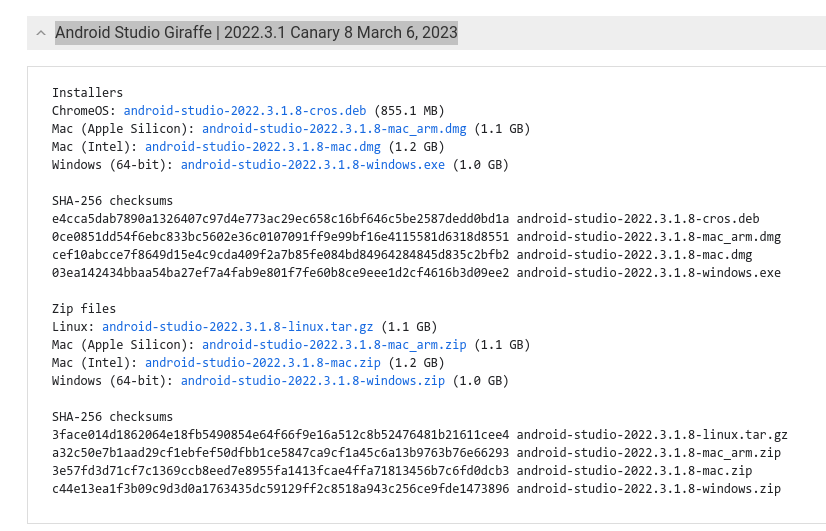
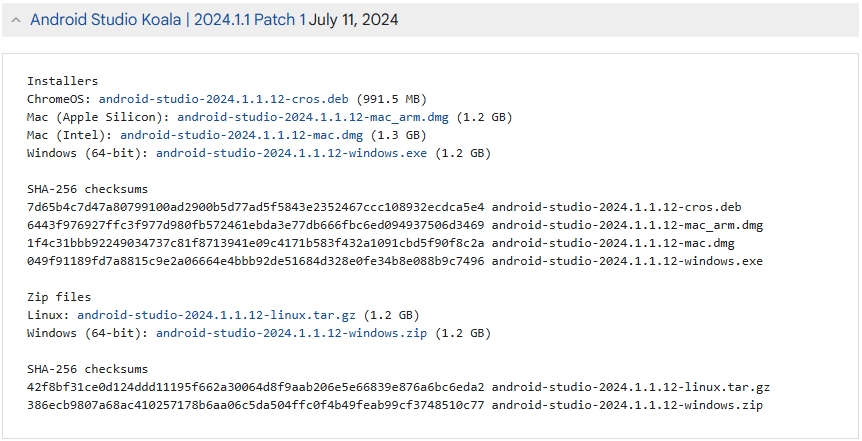
mod/add: some images and update for jetpack compose

diff --git a/content/IntroductionToAndroidStudio/IntroductionToAndroidStudio.md b/content/IntroductionToAndroidStudio/IntroductionToAndroidStudio.md
@@ -79,33 +79,32 @@ math: true
 
 <div align=center >
 
-|Platform Version|	API Level|	VERSION_CODE|
-|--|--|--|	
-|Android 14.0	|34	|UPDSIDE DOWN CAKE|	
-|Android 13.0	|33	|TIRAMSU|
-|Android 12.0	|31 - 32	|SNOW CONE|	
-|Android 11.0	|30	|RED VELVET CAKE|	
-|Android 10.0	|29	|QUINCE TART|
-|Android 9.0	|28	|PIE|	
-|Android 8.0	|27	|OREO|	
-|Android 7.0	|26	|NOUGAT|	
+|Platform Version|	API Level|	VERSION_CODE|Culmative Usage|Year|
+|--|--|--|--|--|	
+|Android 15.0 |35 | VANILLA ICE CREAM| 0.0% |Q4 2024|
+|Android 14.0	|34	|UPDSIDE DOWN CAKE| 25.7% | 2023|	
+|Android 13.0	|33	|TIRAMSU|48.0%|2022|
+|Android 12.0	|31 - 32	|SNOW CONE|	63.8%|2021|
+|Android 11.0	|30	|RED VELVET CAKE|	78.0%|2020|
+|Android 10.0	|29	|QUINCE TART|86.0%|2019|
+|Android 9.0	|28	|PIE|	91.1%|2018|
+|Android 8.0	|26 - 27	|OREO|95.5% - 92.7%|2017|	
+|Android 7.0	|24 - 25	|NOUGAT| 97.1% - 95.9%|2016|	
 
 </div>
-<!--
-14 is in beta
--->
 
 ---
 
 ## Programming and Environment
 
 - **Writing Android Apps**
-  - `Java` and `Kotlin` are  Object-oriented programming languages patterned after the `C++` language
+  - `Java` and `Kotlin` are Object-oriented programming languages patterned after the `C++` language
+  - You can also write apps in `C++` called native development. 
 - **Android Studio**
   - An `integrated development environment (IDE)` for building and integrating application development tools and open-source projects. 
   - Android Studio `IDE` is exclusively dedicated to the purpose of creating Android applications
   - Includes the `Android Software Development Kit (SDK)`
-  - `XML` is used to assist in the layout of the Android emulator
+
 ---
 
 ## Emulator vs Simulator
@@ -124,9 +123,8 @@ math: true
 ## What about Kotlin
 
 - Kotlin is an open-source programming language that can run on Java Virtual Machine (JVM). The language can run on numerous platforms.
-
 - It is a language that combines Object Oriented Programming (OOPs) and functional programming in an unrestricted, self-sufficient and distinctive platform.
-- In 2019, Google announced Kotlin as its preferred programming language for Android application developers
+- In 2019, Google announced Kotlin as its preferred programming language for over 60% of Android application developers.
 
 
 ---
@@ -144,10 +142,10 @@ math: true
 
 ## Opening Android Studio to Create a New Project
 
-- We will be using Android Studio Giraffe | 2022.3.1 Canary 8 March 6, 2023
+- We will be using Android Studio Koala | 2024.1.1 Patch 1 July 11, 2024
 - Download and install the Android Studio from https://developer.android.com/studio/archive. 
-- Search for th "Android Studio Giraffe | 2022.3.1 Canary 8 March 6, 2023"
-- Make sure you have enough space on the disk, it takes 2.6GB and you would also need extra space to run it.
+- Search for th "Android Studio Koala | 2024.1.1 Patch 1 July 11, 2024"
+- Make sure you have enough space on the disk, it takes > 3GB and you would also need extra space to run it.
 ![bg right:40% w:500](../../figures/download.png)
 
 ---
@@ -184,15 +182,16 @@ math: true
 
 - **Must** be intuitive
 - Interface **must** not distract from functionality
-- Java / Kotlin code or XML layout files are needed 
+- Jetpack Compose (new!)
   - Can design interface without writing large amounts of code
+- XML (old, like really old!)
+  - Java / Kotlin code or XML layout files are needed 
 
 ---
 
 ## Taking a Tour of the Android Project View
 
-
-- **Java folder** – contains Java / Kotlin source code
+- **Kotlin+Java folder** – contains Kotlin and Java source code
 - **Res folder** – contains images, music, and video
 - **Manifests folder** – contains the `Android Manifest.xml`, which contains information about the application that Android needs to run
 
@@ -200,28 +199,147 @@ math: true
 
 ---
 
-## Designing the User Interface Layout within the Virtual Device
+## Designing the App
 
-- **Widget** – a single element on the screen (Button, Text Box, etc.)
-- **Layout** – a container that holds as many widgets as needed
-- **Properties pane** – contains the properties of the currently active app project or object 
-- **Android Virtual Device (AVD)** – Android Studio displays an emulator configuration for design and layout purposes
+![w:1000 center](../../figures/projectView.png)
 
 ---
 
-## Designing the User Interface Layout within the Virtual Device (Cont’d.)
+## Jetpack Compose
 
-Click Device Manager on the menu and Create Virtual Device at the bottom of the screen 
+- Is a declarative framework.
+- The technique works by conceptually regenerating the entire screen from scratch, then applying only the necessary changes.
+- **Composables** execute in any order, and in parallel, be skipped and run frequently 
+
+- Model-View-ViewMode architecture (MVVM)
+
+![bg right:50% 100%](../../figures/mvvm-pattern.png)
+
+<!--
+Declarative describe your view without relying on mutation and more traditional imperative programming concepts
+
+Compose doesn’t actually rebuild the entire View when you update something. 
+It’s smart enough to only change the section that needs to change.
+
+-->
+---
+
+## State and Composition
+
+<table width="100%">
+<tr>
+<td width = "40%">
+
+
+Key Term:
+- **Composition**: a description of the UI built by Jetpack Compose when it executes composables.
+- **Initial composition**: creation of a Composition by running composables the first time.
+- **Recomposition**: re-running composables to update the Composition when data changes.
+
+</td>
+<td>
+
+```kt
+@Composable
+private fun HelloContent() {
+    Column(modifier = Modifier.padding(16.dp)) {
+        Text(
+            text = "Hello!",
+            modifier = Modifier.padding(bottom = 8.dp),
+            style = MaterialTheme.typography.bodyMedium
+        )
+        OutlinedTextField(
+            value = "",
+            onValueChange = { },
+            label = { Text("Name") }
+        )
+    }
+}
+```
+
+</td>
+</tr>
+</table>
+
+---
+
+## Referencing the String
+
+![w:1000 center](../../figures/referenceString.png)
+
+---
+
+## Modifying the Jetpack Compose UI Components
+
+![w:1000 center](../../figures/jetComposeUIModifications.png)
+
+---
+
+## State in composable
+
+<table width="100%">
+<tr>
+<td width = "40%">
+
+- **Composable functions** can use the `remember` API to store an object in memory. 
+- A value computed by `remember` is stored in the Composition during **initial composition**, and the stored value is returned during **recomposition**. 
+- `remember` can be used to store both **mutable** and **immutable** objects.
+</td>
+<td>
+
+```kt
+@Composable
+fun HelloContent() {
+    Column(modifier = Modifier.padding(16.dp)) {
+        //val mutableState = remember { mutableStateOf(default) }
+        //val (value, setValue) = remember { mutableStateOf(default) }
+        var name by remember { mutableStateOf("") }
+        if (name.isNotEmpty()) {
+            Text(
+                text = "Hello, $name!",
+                modifier = Modifier.padding(bottom = 8.dp),
+                style = MaterialTheme.typography.bodyMedium
+            )
+        }
+        OutlinedTextField(
+            value = name,
+            onValueChange = { name = it },
+            label = { Text("Name") }
+        )
+    }
+}
+```
+
+</td>
+</tr>
+</table>
+
+---
+
+## Modifying the Jetpack Compose UI Components
+
+![w:800 center](../../figures/interactiveModeComposable.gif)
+
+
+---
+
+
+## The Virtual Device
+
+- **Android Virtual Device (AVD)** – Android Studio displays an emulator configuration for design and layout purposes
+
+- Click Device Manager on the menu and Create Virtual Device at the bottom of the screen 
 
 ![bg right:50% 90% center](../../figures/avd.png)
 
 ---
-## Designing the User Interface Layout within the Virtual Device (Cont’d.)
+
+## The Virtual Device (Cont’d.)
 
 ![w:850 center](../../figures/selectingAVD.png)
 
 ---
-## Designing the User Interface Layout within the Virtual Device (Cont’d.)
+## The Virtual Device (Cont’d.)
 
 ![w:850 center](../../figures/selectingAVDImage.png)
 
@@ -231,44 +349,29 @@ Click Device Manager on the menu and Create Virtual Device at the bottom of the 
 ![w:850 center](../../figures/downloadingSDK.png)
 
 ---
-## Designing the User Interface Layout within the Virtual Device (Cont’d.)
+## The Virtual Device (Cont’d.)
 
 ![w:850 center](../../figures/selectingAVDVerification.png)
 
 ---
-## Designing the User Interface Layout within the Virtual Device (Cont’d.)
 
-Step 1: Click ‘Device for Preview (D)’ button (the emulator button) directly to the right of the Palette on the `activity_main.xml` tab, and then click Nexus 6 
-
----
-## Designing the User Interface Layout within the Virtual Device (Cont’d.)
-
-![w:950 center](../../figures/nexusSelection.png)
-
----
-## Designing the User Interface Layout within the Virtual Device (Cont’d.)
-
-Step 2: Click on the text in the middle to display the Attributes window 
-
-
-![w:850 center](../../figures/mainActivityView.png)
-
----
-
-## Modifying the Text in the TextView Control
-
-![w:850 center](../../figures/stringsXML.png)
-
----
-
-## Referencing the String
-
-![w:800 center](../../figures/referenceString.png)
-
----
 ## Testing the Application in the Emulator
 
 - Step 1:  Tap or click the Run ‘app’ button on the toolbar 
 - Step 2: After you have run the app once and have started the emulator, next time around the Run ‘app’ button has changed
 
-![bg right:50% 60%](../../figures/Emulator.png)
+![bg right:50% 50%](../../figures/Emulator.png)
+
+---
+
+## Go to for Referencing 
+
+<div style="font-size:27px">
+
+- Android JetPack - [https://developer.android.com/jetpack](https://developer.android.com/jetpack)
+
+- JetPack Compose - [https://developer.android.com/jetpack/androidx/releases/compose](https://developer.android.com/jetpack/androidx/releases/compose)
+
+- API references - [https://developer.android.com/reference](https://developer.android.com/reference)
+
+</div>

diff --git a/content/ModuleIntroduction/moduleIntroduction.md b/content/ModuleIntroduction/moduleIntroduction.md
@@ -55,19 +55,22 @@ On successful completion of this module, a student will be able to:
 
 Encapsulation and Information Hiding, Constructors, Inheritance, Polymorphism, Interfaces, Exception Handling, Files and Streams, Threads, User Interface Design, Widgets, Activities, Views, Intents, Menus, 2D and 3D Graphics, Animation.
 
+This is non-exhaustive. 
+
 --- 
 
-## Programming/Markup Languages
+## Programming
+
+-  Android Studio
+   - The Intergrated Development Environment for developing on the Android platform.
+
 
 -  Kotlin
    -  Now the preferred programming language for Android development
--  XML
-   -  Extensible Markup Langauge, for design in Android Studio
 
-![bg right:40% 40%](../../figures/kotlin_logo.png)
+![bg right:40% 40%](../../figures/android_studio.png)
 
-![bg vertical right:40% 75%](https://upload.wikimedia.org/wikipedia/commons/thumb/9/9d/Xml_logo.svg/241px-Xml_logo.svg.png?20080508104026)
-
+![bg vertical right:40% 40%](../../figures/kotlin_logo.png)
 
 ---
 
@@ -77,12 +80,12 @@ Encapsulation and Information Hiding, Constructors, Inheritance, Polymorphism, I
 
 This module will be taught based on a problem-solving approach. [You] will be given specific problems to solve with the underpinning material supplied by lectures and tutorials.
 
-At the end of this module, [you] will be able to undertake an engineering challenge such as designing and developing a mobile app. An example app might be a mobile game (like a Grade Calculator or Sensor Utility). The app will be developed using the basic principles of mobile development technology and incorporating various additional features like an animated user interface, playing music, and sound effects.
+At the end of this module, [you] will be able to undertake an engineering challenge such as designing and developing a mobile app. The app will be developed using the basic principles of mobile development technology and incorporating various additional features like an animated user interface, playing music, and sound effects.
 
 Learning and teaching will be by a combination of:
 - Lectures/tutorials/laboratory sessions (face-to-face, video, or computer-mediated)
 - Individual or group-based teaching tutorial/project
-Self-study-supported structured learning materials
+- Self-study-supported structured learning materials
 
 </div>
 
